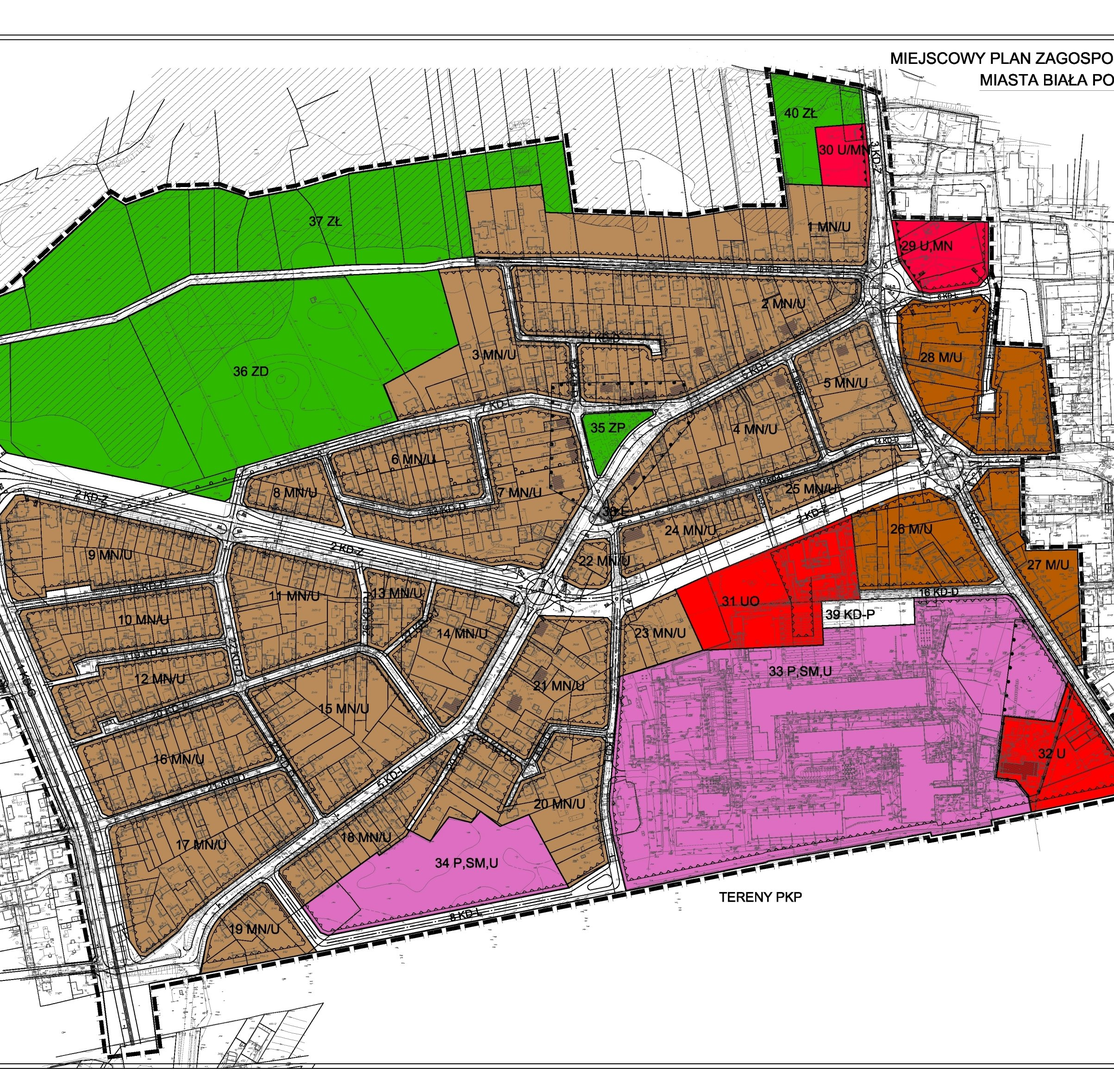
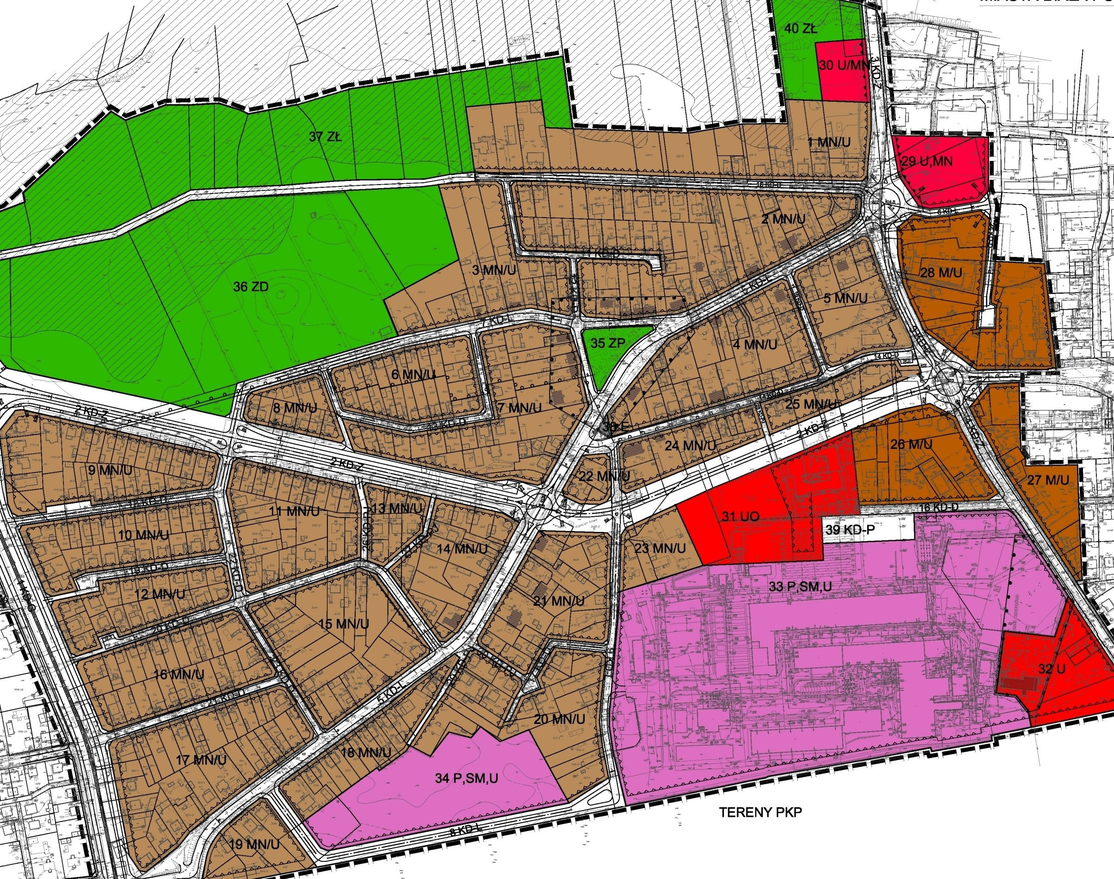
kalibracja + legenda

diff --git a/app/views/listenLocal.scala.html b/app/views/listenLocal.scala.html
@@ -24,6 +24,26 @@ $(function() {
         </div>
         <div id="charts" class="graphical">
         </div>
+        <div id="legend" class="legend">
+            <span>
+                <span><div class="green_rect"></div> Tereny zielone</span>
+            </span>
+            <span>
+                <span><div class="light_brown"></div> Mieszkalne jednorodzinne i usługi</span>
+            </span>
+            <span>
+                <span><div class="brown"></div> Mieszkalne jedno i wielorodzinne i usługi</span>
+            </span>
+            <span>
+                <span><div class="red"></div> Zabudowa oświatowa i usługi</span>
+            </span>
+            <span>
+                <span><div class="pink"></div> Usługi z dopuszczeniem zab. mieszk.</span>
+            </span>
+            <span>
+                <span><div class="violet"></div> Tereny produkcyjne, składy, usługi</span>
+            </span>
+        </div>
     </div>
 
     <div id="simulation-menu">

diff --git a/public/stylesheets/main.css b/public/stylesheets/main.css
@@ -8,10 +8,51 @@ body {
   height: 500px;
   float: left;
   clear: both;
-  width: 90%;
+  width: 70%;
   border: 1px solid black;
-  background: url("zielona.jpg") no-repeat center;
+  background: url("zielona.jpg") no-repeat;
   background-size: contain;
+  background-position: 44% 50%;
+}
+
+.legend {
+  float: right;
+}
+
+.green_rect {
+  width:20px;
+  height:20px;
+  background:#2EB800;
+}
+
+.light_brown {
+  width:20px;
+  height:20px;
+  background: #B98B5A;
+}
+
+.brown {
+  width:20px;
+  height:20px;
+  background: #B95B01;
+}
+
+.red {
+  width:20px;
+  height:20px;
+  background: #FD0100;
+}
+
+.pink {
+  width:20px;
+  height:20px;
+  background: #FE003E;
+}
+
+.violet {
+  width:20px;
+  height:20px;
+  background: #DE6EC2;
 }
 
 #simulation-menu {
@@ -19,3 +60,5 @@ body {
   width: 90%;
   float: right;
 }
+
+
